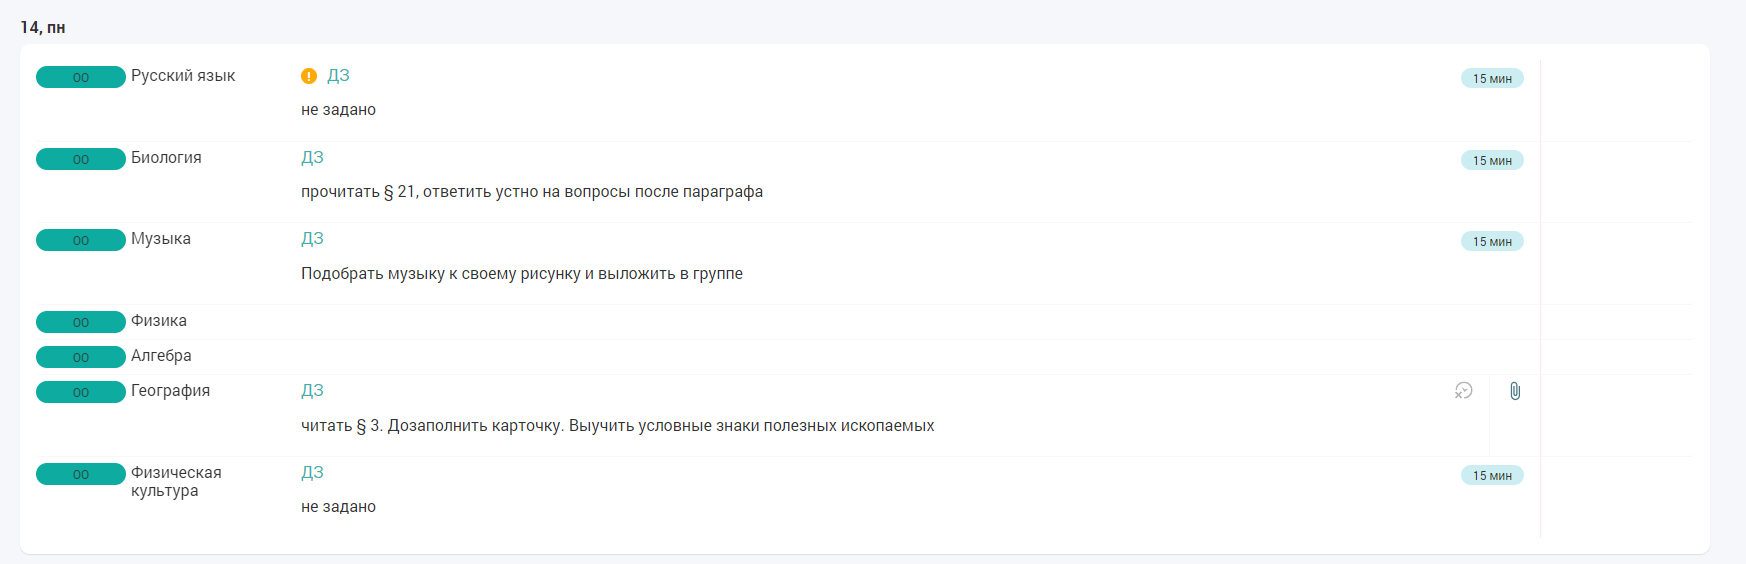
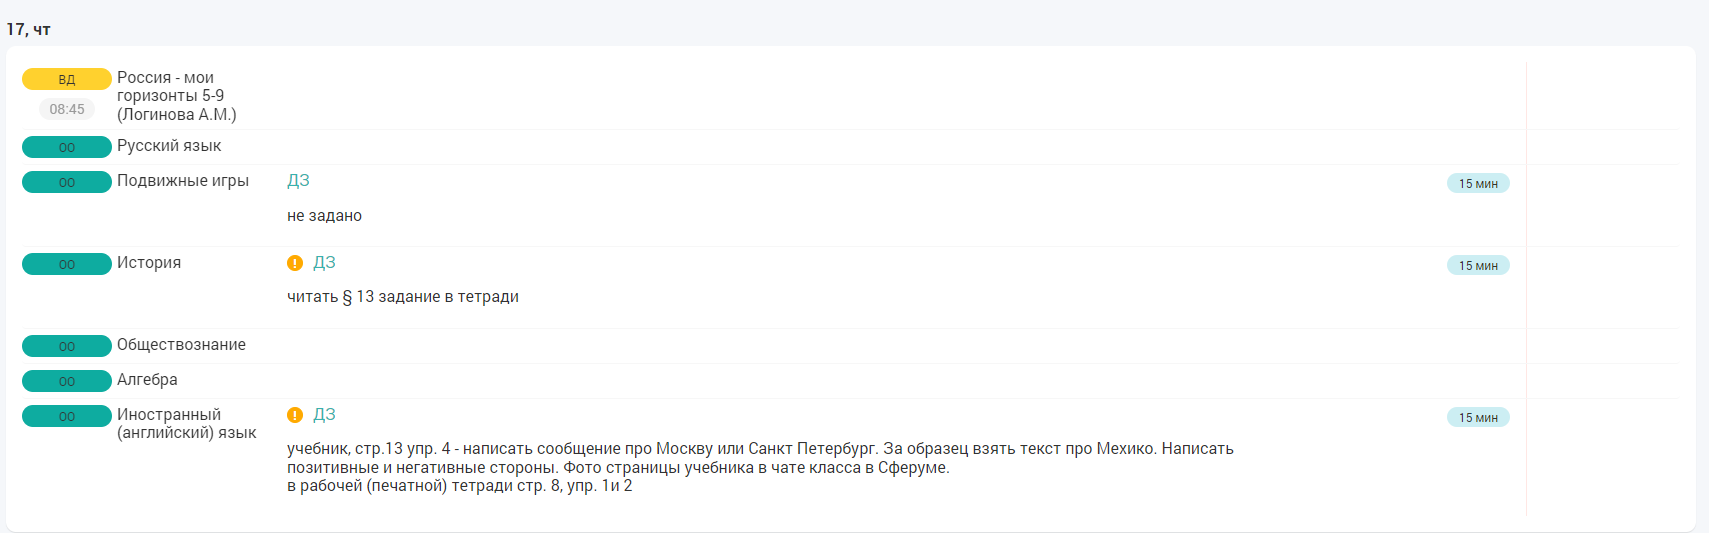
на 17

diff --git a/index.html b/index.html
@@ -6,10 +6,11 @@
     </head>
     <body>
   <div class="div">
-    <h1 class="Text1"> ДЗ на 15 октября</h1>
-    <p>Выучить стих по литературе Медный Всадник с начала стиха до "И запируем на просторе"</p>
+    <h1 class="Text1"> ДЗ на 17 октября</h1>
     <p class="Дз"><img src="Images/ДЗ.png" width="1366" height="750"></img></p>
-    <p class="Расписание"><img src="Images/" width="1280" height="720"></img></p>
+    <p class="Расписание"><img src="Images/Расписание.jpg" width="1280" height="720"></img></p>
+    <p class="Расписание"><img src="Images/Английский.jpg" width="1280" height="720"></img></p>
+
   </div>
     <script src="js/script.js"></script>
     <link rel="stylesheet" href="style.css">
